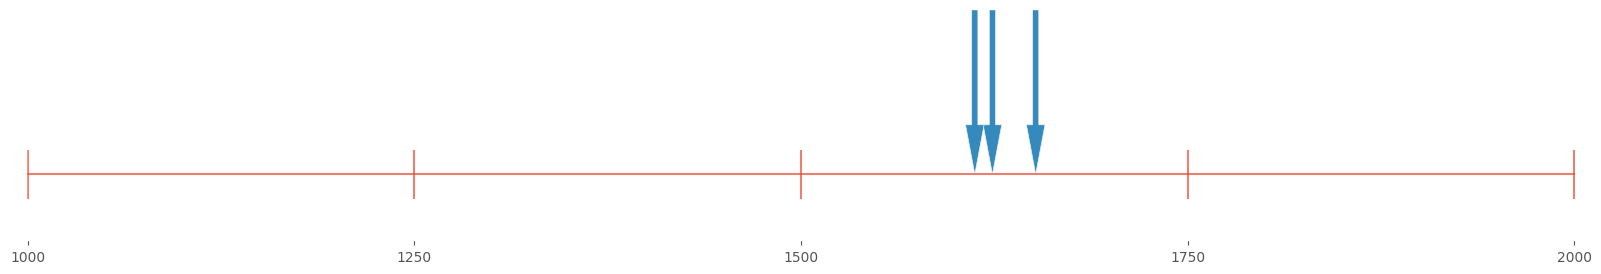
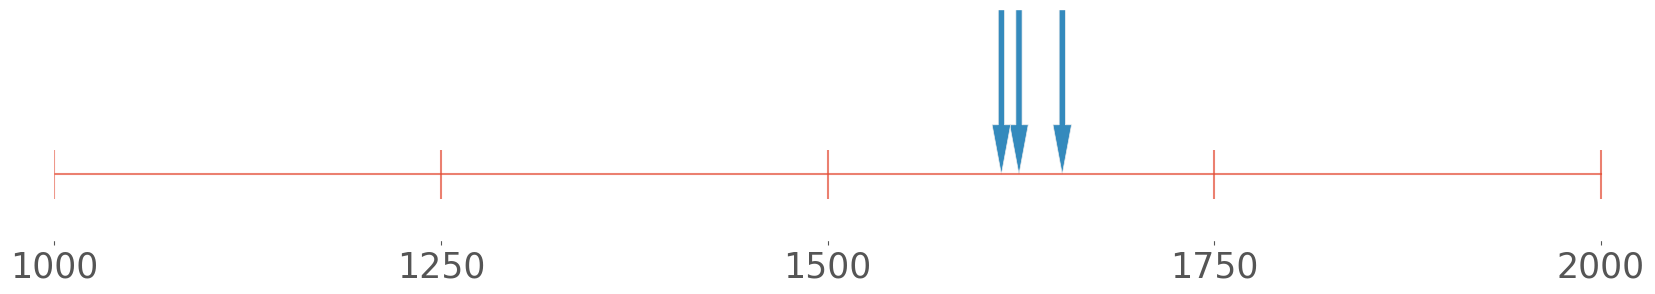
Solving the issue with fontsize

diff --git a/create_stimuli_experiment.py b/create_stimuli_experiment.py
@@ -37,8 +37,8 @@ def create_draw_experiment(sample_to_draw, seed, size_sample=6, mean_factor=5, y
 
 
 def create_one_plot(sample_x, sample_y, x_line, y_line, xmin, xmax, ymin, ymax):
-    figure, axis = plt.subplots(1, 1, figsize=(20, 3))
     plt.rc("font", size=25)
+    figure, axis = plt.subplots(1, 1, figsize=(20, 3))
     axis.set_xlim(xmin=xmin, xmax=xmax)
     plt.setp(axis, xticks=[1000, 1250, 1500, 1750, 2000])
     axis.set_ylim(ymin=ymin, ymax=ymax)
@@ -240,7 +240,7 @@ res = create_stimuli_experiment(
     list_std=[20, 150],
     list_npoints=[3, 10],
     n_iteration_per_condition=2,
-    n_samples=10,
+    n_samples=5,
     mean_factor=1,
     seed=0,
     xmin=999,
